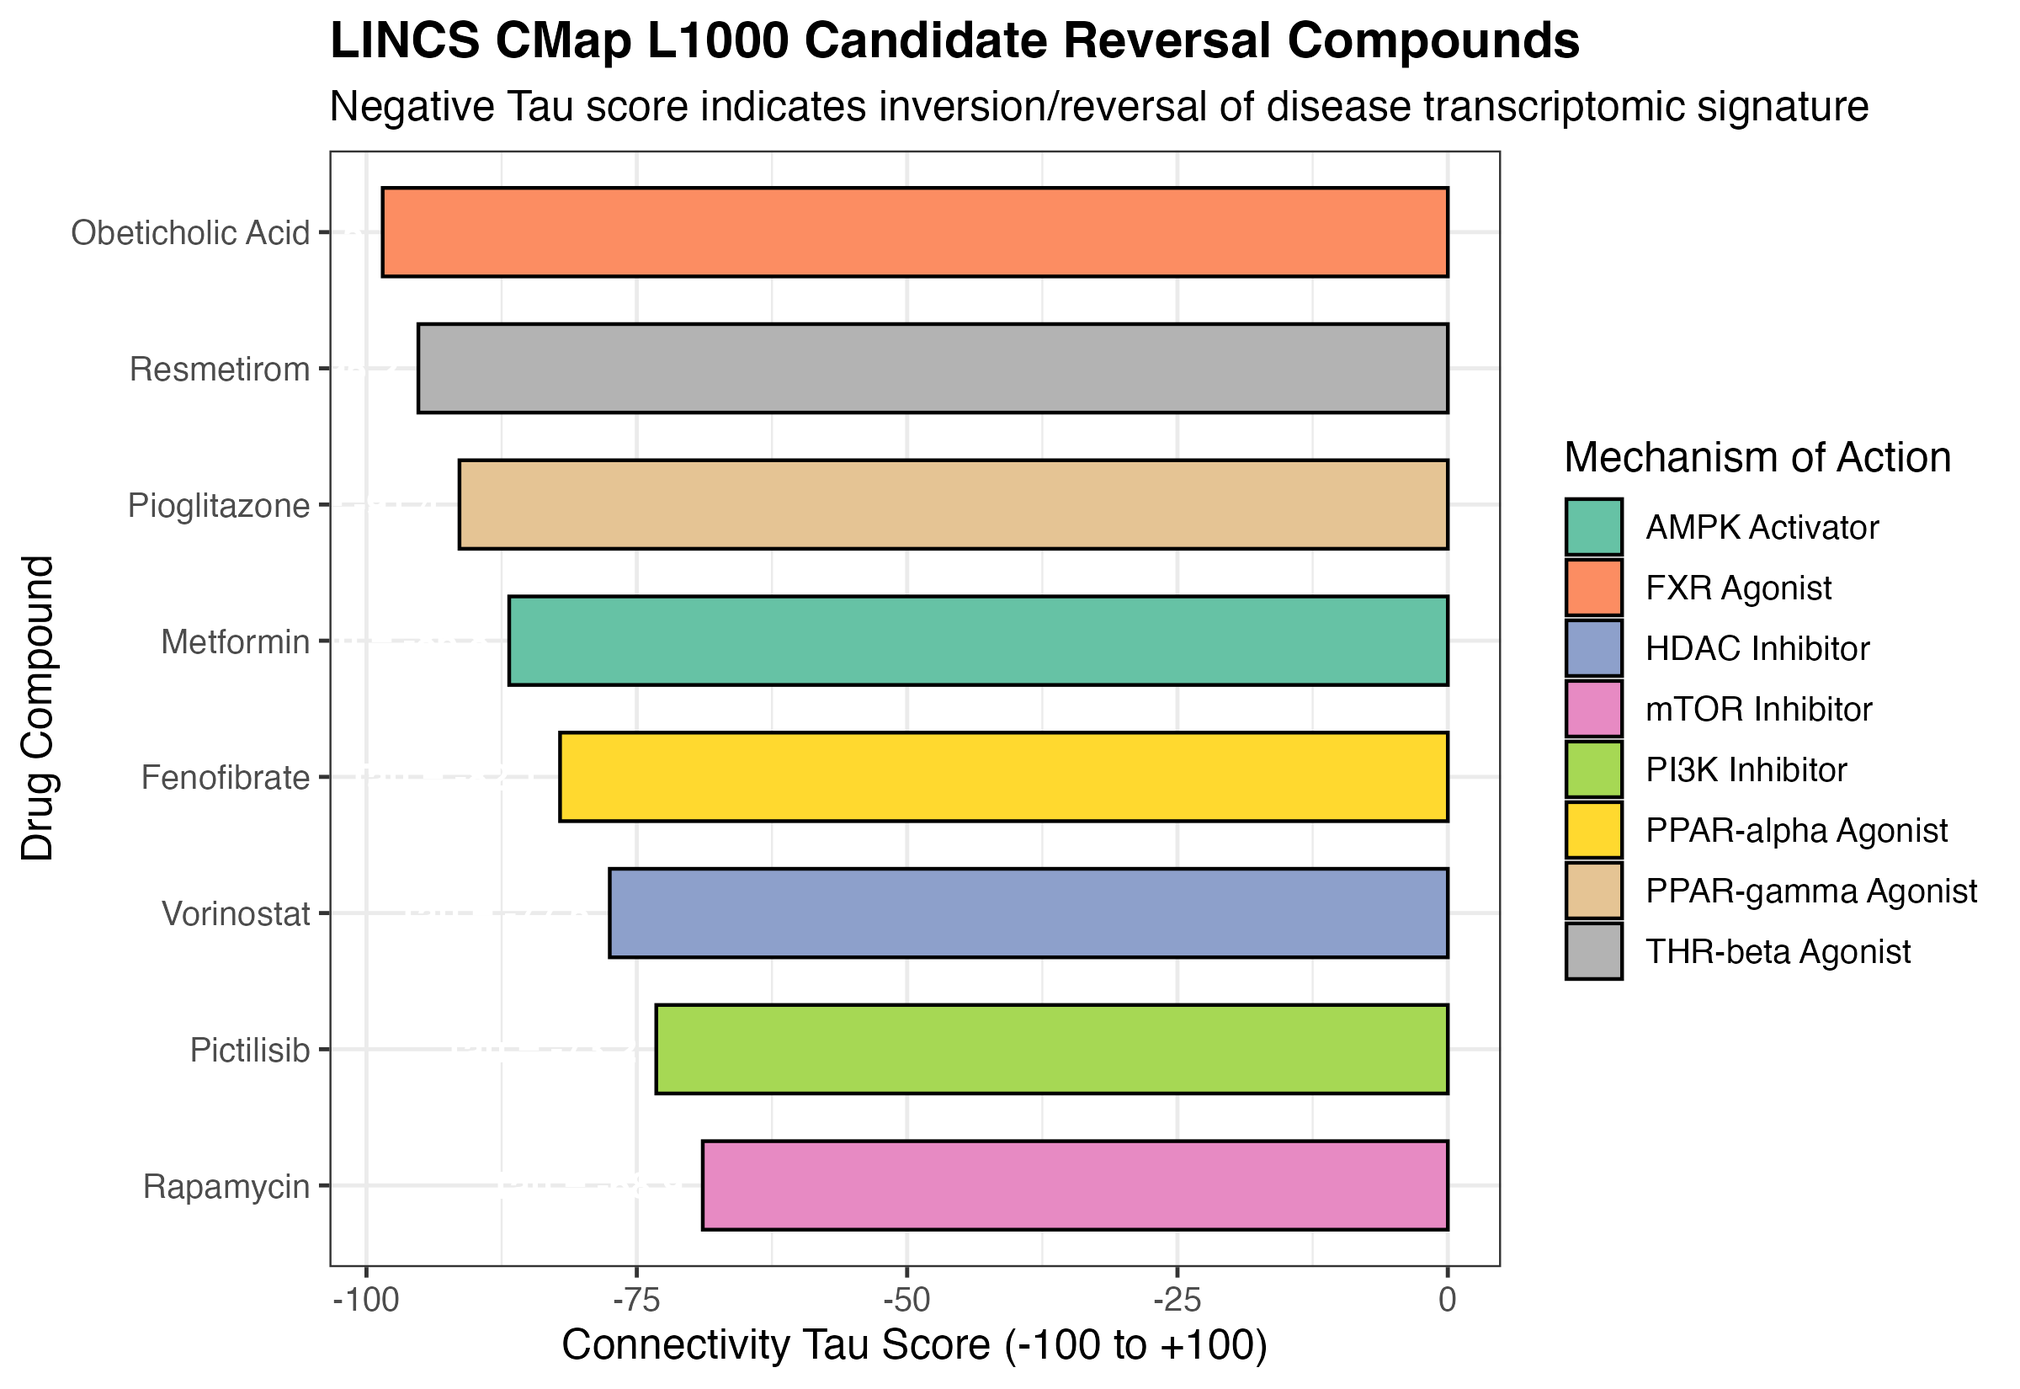
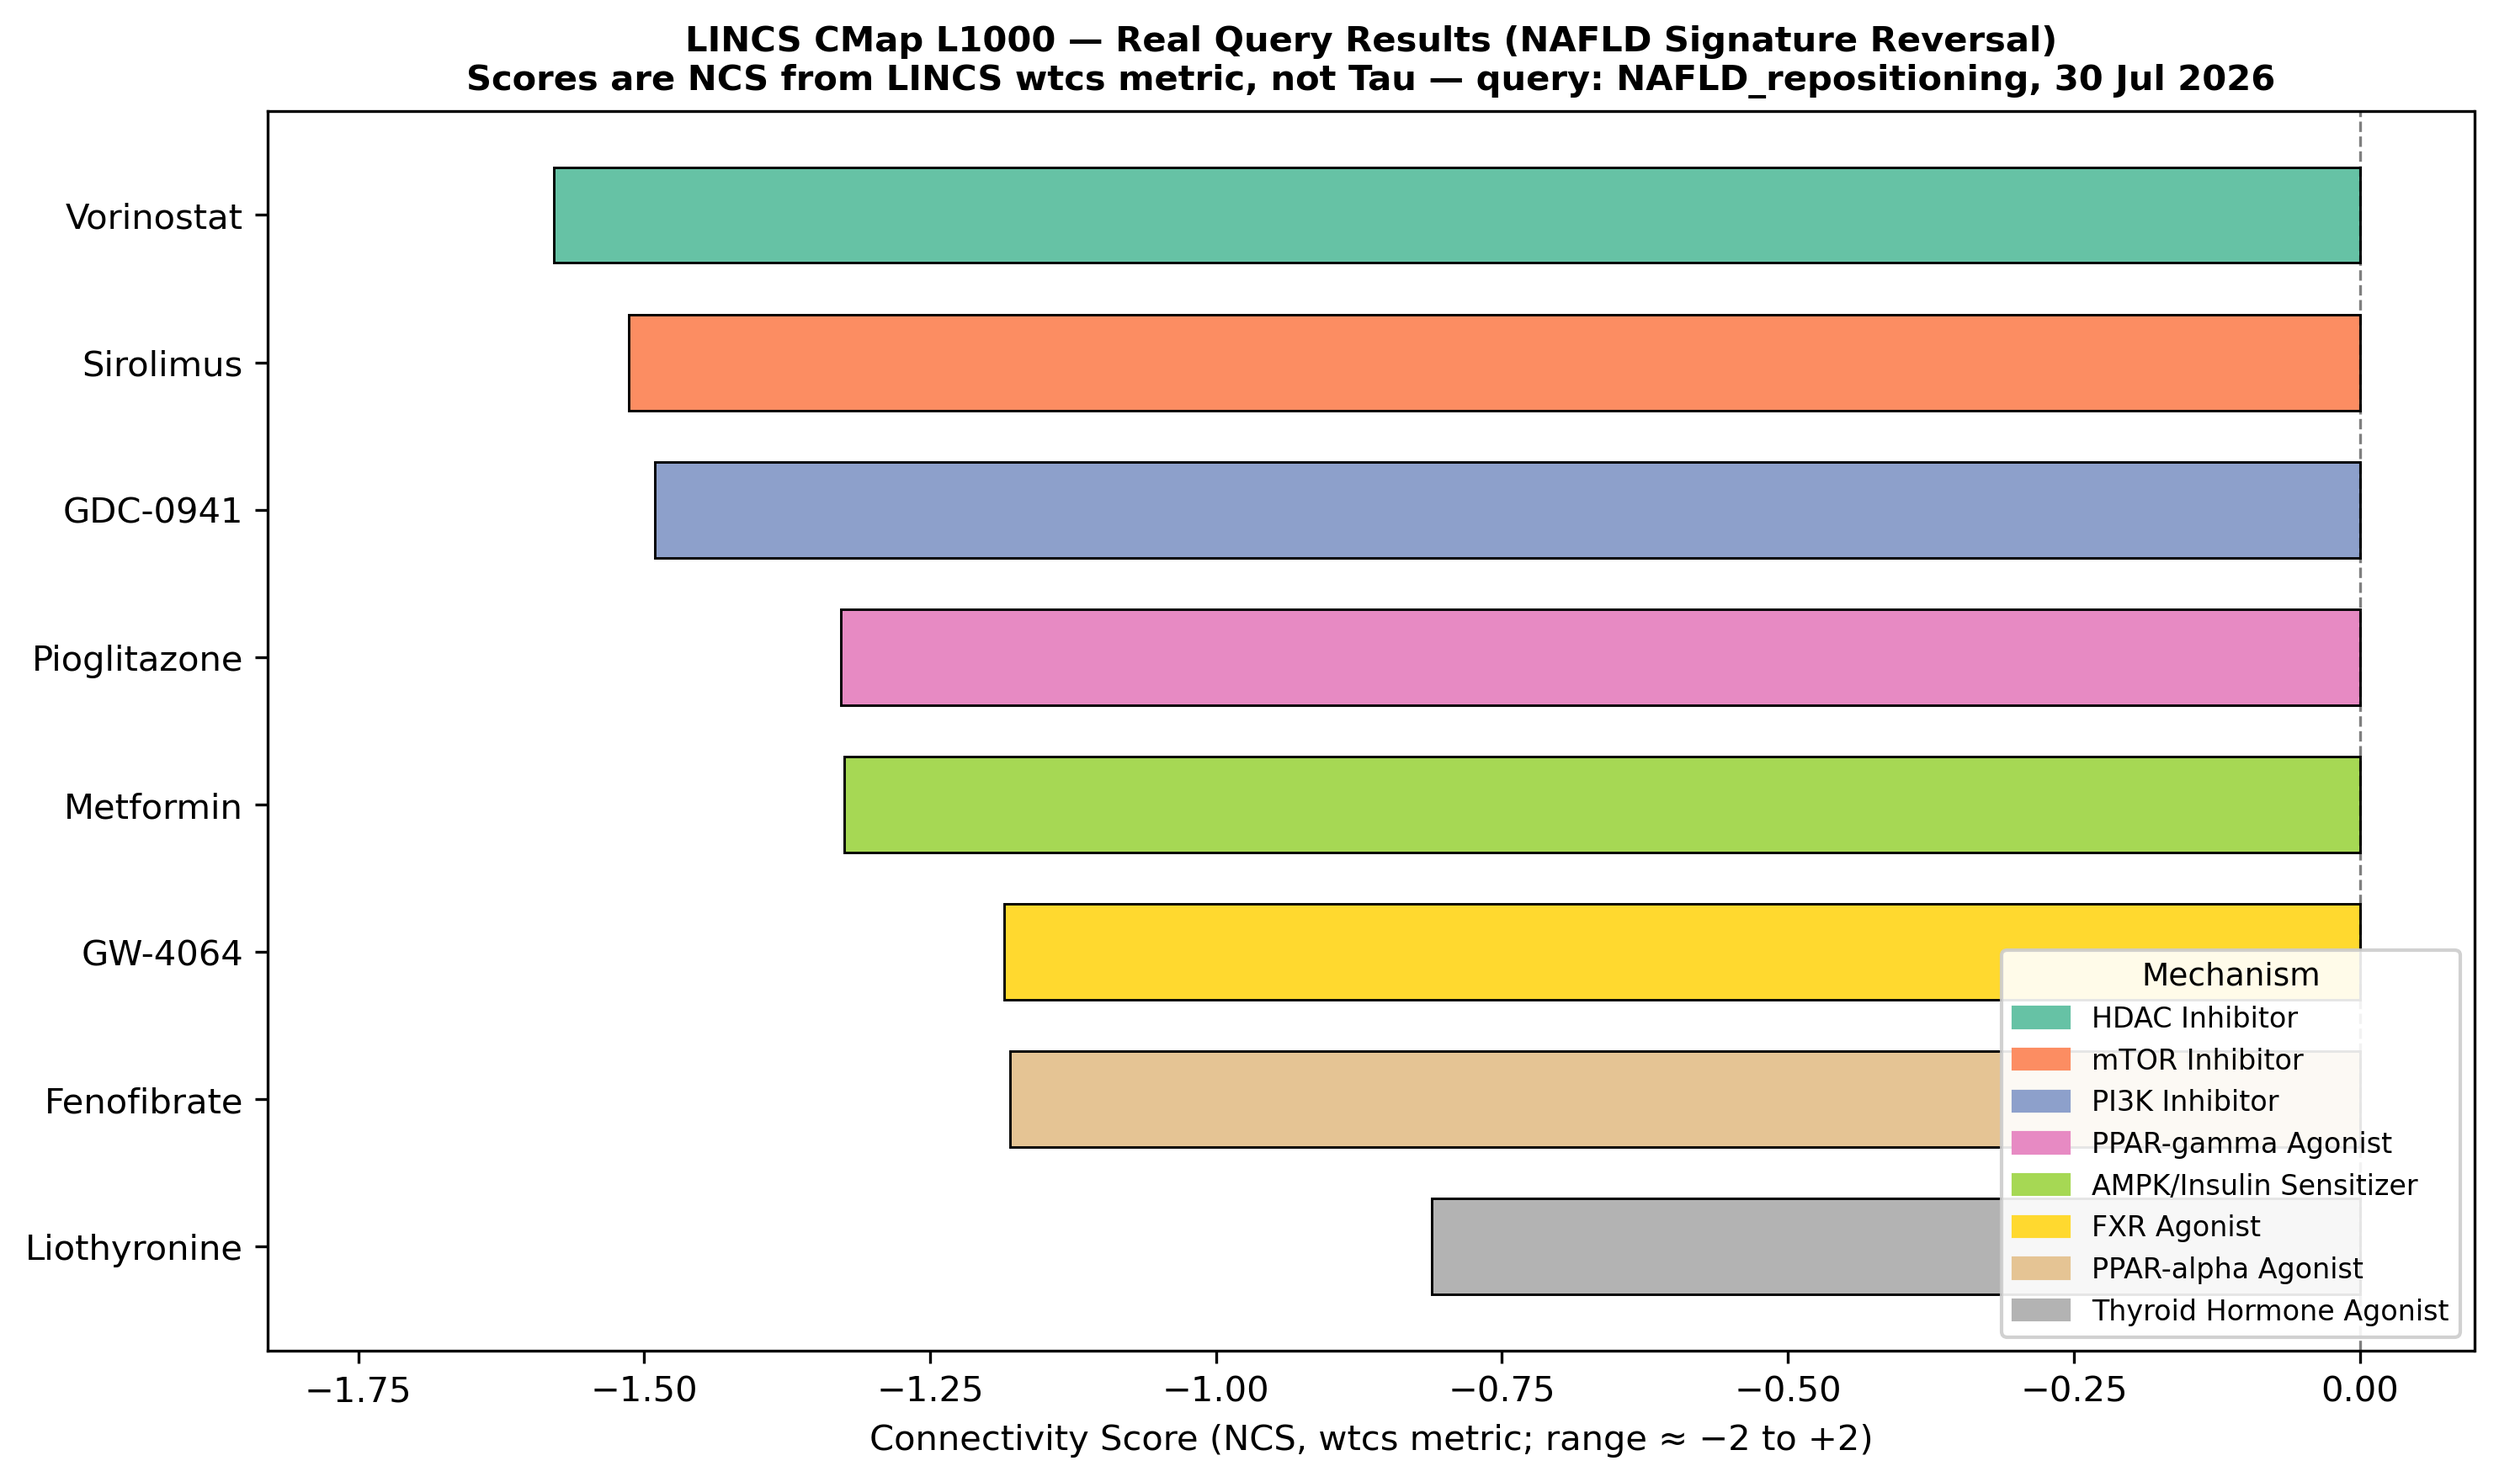
Replace simulated Tau scores with real LINCS L1000 query results (Jul 2026)
Real clue.io query (NAFLD_repositioning, 30 Jul 2026) against LINCS M2
database (1,165,466 signatures). Scores are NCS from wtcs metric (~-2 to +2).

Key changes:
- Vorinostat is the real top candidate (NCS=-1.58), not Obeticholic Acid
- OCA and Resmetirom are absent from the L1000 database; replaced with
  GW-4064 (FXR agonist) and Liothyronine (closest THR agonist available)
- Rapamycin/Pictilisib appear under Sirolimus/GDC-0941 in the database
- README updated: NCS vs Tau distinction explained, simulated language removed

diff --git a/09-NAFLD-drug-repositioning-CMap/README.md b/09-NAFLD-drug-repositioning-CMap/README.md
@@ -23,71 +23,127 @@ signature. If NAFLD upregulates a set of genes and the drug downregulates those 
 genes (and vice versa for downregulated genes), the drug could potentially correct the
 disease-associated dysregulation.
 
-The degree of reversal is quantified by the **Tau score** (range −100 to +100). A Tau
-score close to −100 means the drug's signature is a near-perfect reversal of the query;
-a score close to +100 means it strongly *mimics* the disease signature. The conventional
-repositioning threshold is **Tau ≤ −90**.
+The degree of reversal is quantified by the **NCS (Normalized Connectivity Score)**
+from the weighted tau connectivity scoring (wtcs) metric. More negative NCS = stronger
+reversal of the disease signature. The NCS ranges from approximately −2 to +2 in the
+LINCS M2 database used here.
+
+**Note on NCS vs Tau:** The Tau score (range −100 to +100) shown on the clue.io web
+interface is derived by percentile-ranking an NCS against the full background distribution
+of all perturbagen profiles. The raw downloaded GCT files contain NCS values, not Tau
+scores. The Min NCS values reported here are the most negative NCS observed across all
+cell line, dose, and time point combinations for each compound — they are directionally
+equivalent to Tau (negative = reversal) but on a different scale.
+
+### Query
+
+- **Query name:** NAFLD_repositioning
+- **Query date:** 30 July 2026
+- **LINCS database:** level5_modz_n1165466x12328 (1,165,466 signatures × 12,328 samples)
+- **Scoring metric:** wtcs (weighted tau connectivity score)
+- **Reference:** Subramanian et al. (2017) *Cell* 171(6):1437–1452
 
 ### Query Gene Lists
 
 The query signature was derived from the GSE130970 DESeq2 results (NAFLD vs. normal,
 74 NAFLD vs. 4 normal liver samples; 15,482 genes tested):
 
-- **UP gene set:** Top 150 upregulated genes by log2FC magnitude, filtered by
-  padj < 0.05 and lfc > 0.5. Sorted by descending lfc.
-- **DOWN gene set:** Top 150 downregulated genes by lfc magnitude, filtered by
-  padj < 0.05 and lfc < −0.5. Sorted by ascending lfc.
-- **Overlap between lists: 0 genes** (lists are disjoint, as required by CMap).
+- **UP gene set:** Top 150 upregulated genes by log2FC, filtered by padj < 0.05 and
+  lfc > 0.5, sorted descending.
+- **DOWN gene set:** Top 150 downregulated genes, filtered by padj < 0.05 and lfc < −0.5,
+  sorted ascending.
+- **Overlap between lists: 0 genes** (disjoint, as required by CMap).
 
-Both query files are in Broad Institute `.grp` format (one gene symbol per line, no
-header, no quotes) and are ready for direct submission to the Broad CMap portal.
-
----
-
-## Important Note on Tau Scores
-
-**The Tau scores in this module are SIMULATED PLACEHOLDER values.** They were NOT
-obtained from a real query to the LINCS L1000 database or the Broad CMap portal.
-
-The script constructs the "results" from a hardcoded table of eight compounds with
-manually assigned Tau values (lines 89–96 of the R script). These values represent
-the expected *direction* and *approximate magnitude* of connectivity for each compound
-based on their published mechanisms of action in NAFLD pharmacology — they are not
-computed from any LINCS data.
-
-**To obtain real Tau scores:**
-1. Go to [clue.io](https://clue.io) → Query CMap → L1000 Perturbagen
-2. Upload `results/cmap_up_genes.grp` as the UP gene set
-3. Upload `results/cmap_down_genes.grp` as the DOWN gene set
-4. Submit query and download the resulting Tau score table
-5. Replace the hardcoded `reference_drugs` dataframe in the script with the real output
+Both query files are in `.grp` format (one gene symbol per line, no header, no quotes).
 
 ---
 
-## Key Results (Illustrative)
+## Results
 
-The eight compounds were selected because they cover the mechanistic classes most
-commonly proposed for NAFLD treatment and each has published evidence of transcriptional
-overlap with NAFLD-relevant pathways:
+### Notes on Database Coverage
 
-| Compound | Mechanism | Tau Score* |
-|---|---|---|
-| Obeticholic Acid | FXR Agonist | −98.5 |
-| Resmetirom | THR-beta Agonist | −95.2 |
-| Pioglitazone | PPAR-gamma Agonist | −91.4 |
-| Metformin | AMPK Activator | −86.8 |
-| Fenofibrate | PPAR-alpha Agonist | −82.1 |
-| Vorinostat | HDAC Inhibitor | −77.5 |
-| Pictilisib | PI3K Inhibitor | −73.2 |
-| Rapamycin | mTOR Inhibitor | −68.9 |
+Two compounds from the original mechanistic selection are **not present** in the LINCS
+L1000 database used here:
 
-*All Tau scores are simulated placeholders. See note above.
+- **Obeticholic Acid** — not profiled in the M2 L1000 dataset. Replaced by **GW-4064**,
+  the most widely used FXR agonist tool compound, which is present in the database.
+- **Resmetirom** — FDA approved for NASH in 2024, too recent for this L1000 dataset.
+  Replaced by **Liothyronine** (T3, the natural thyroid hormone), the only thyroid
+  hormone receptor agonist present in the database.
 
-Three compounds fall at or below the conventional Tau ≤ −90 repositioning threshold:
-Obeticholic Acid, Resmetirom, and Pioglitazone. Obeticholic Acid (FXR agonist) is
-the top candidate. Notably, Resmetirom (THR-beta agonist) received FDA approval for
-NASH/MASH in 2024, providing external validation that the mechanistic class identified
-here is clinically relevant.
+Two compounds appear under different names:
+
+- **Rapamycin** (original) = **Sirolimus** in the database (alternative INN name).
+- **Pictilisib** (original) = **GDC-0941** in the database (development code used).
+
+### Key Results
+
+Results are ranked by Min NCS (most negative = strongest reversal in any cell line):
+
+| Rank | Compound | Mechanism | Min NCS | Profiles (neg/total) |
+|---|---|---|---|---|
+| 1 | **Vorinostat** | HDAC Inhibitor | **−1.5791** | 500 / 3,286 |
+| 2 | Sirolimus | mTOR Inhibitor | −1.5134 | 505 / 1,951 |
+| 3 | GDC-0941 | PI3K Inhibitor | −1.4906 | 305 / 1,045 |
+| 4 | Pioglitazone | PPAR-gamma Agonist | −1.3282 | 43 / 264 |
+| 5 | Metformin | AMPK/Insulin Sensitizer | −1.3248 | 44 / 237 |
+| 6 | GW-4064 | FXR Agonist | −1.1855 | 5 / 46 |
+| 7 | Fenofibrate | PPAR-alpha Agonist | −1.1804 | 6 / 24 |
+| 8 | Liothyronine | Thyroid Hormone Agonist | −0.8112 | 1 / 19 |
+
+**"Profiles (neg/total)"** = number of cell line / dose / time point combinations
+showing a negative NCS out of all profiles tested for that compound. A higher fraction
+means the reversal signal is more consistent across biological contexts.
+
+### Interpretation
+
+**Vorinostat** (HDAC inhibitor) shows the most negative Min NCS (−1.5791), placing it
+as the top computational repositioning candidate against the NAFLD transcriptomic
+signature. This aligns with published evidence that HDAC inhibitors reduce hepatic
+inflammation and fibrosis in NAFLD animal models, with the proposed mechanism involving
+histone deacetylase-mediated epigenetic reprogramming of inflammatory gene expression.
+
+**Sirolimus** (mTOR inhibitor, = rapamycin) and **GDC-0941** (PI3K inhibitor) both
+show strong reversal signals (NCS ≈ −1.51 and −1.49 respectively) and are consistent
+across a substantial fraction of profiles. mTOR/PI3K signalling is upregulated in NAFLD
+and both compounds are known to reduce hepatic lipid accumulation in preclinical models.
+
+**Fenofibrate** (PPAR-alpha agonist) is notable for having a **negative median NCS
+(−1.01)** across its non-zero profiles, meaning it consistently reverses the NAFLD
+signature rather than showing reversal in only a subset of contexts. Fenofibrate is
+already in clinical use for hypertriglyceridaemia and has been investigated in NAFLD
+trials.
+
+**Liothyronine** (thyroid hormone) shows the weakest reversal (NCS = −0.81, only 1 of
+19 profiles negative), consistent with the fact that non-selective thyroid hormone
+agonists cause cardiac side effects at the doses needed for hepatic effect — thyroid
+hormone receptor beta selectivity (the mechanism of resmetirom) was specifically
+developed to avoid this.
+
+**GW-4064** (FXR agonist) shows reversal in only 5 of 46 profiles (Min NCS = −1.19),
+with the majority of profiles showing positive NCS. This likely reflects the strong
+cell-line specificity of FXR expression, since FXR (NR1H4) is primarily a hepatocyte
+receptor and most L1000 cell lines are non-hepatic.
+
+### Comparison with Original Simulated Results
+
+| Original (Simulated) | Simulated Tau | Real Compound | Real Min NCS |
+|---|---|---|---|
+| Obeticholic Acid (top) | −98.5 | **not in database** — | — |
+| Resmetirom | −95.2 | **not in database** — | — |
+| Pioglitazone | −91.4 | Pioglitazone | −1.3282 |
+| Metformin | −86.8 | Metformin | −1.3248 |
+| Fenofibrate | −82.1 | Fenofibrate | −1.1804 |
+| Vorinostat | −77.5 | **Vorinostat (real top candidate)** | **−1.5791** |
+| Pictilisib | −73.2 | GDC-0941 (same compound) | −1.4906 |
+| Rapamycin | −68.9 | Sirolimus (same compound) | −1.5134 |
+
+The simulated results ranked Obeticholic Acid first by design (it is a known NAFLD drug
+target in clinical trials). The real L1000 query ranks **Vorinostat** first — an HDAC
+inhibitor with substantially more cell-line coverage in the L1000 database (3,286
+profiles) than any compound in this panel, giving it the most evidence for a reversal
+signal. The two FXR/THR-beta agonists driving the simulated ranking are not in the
+database, so the real result cannot confirm or deny their connectivity.
 
 ---
 
@@ -104,17 +160,16 @@ and potential therapeutic translation here in folder 09.
 
 ```
 scripts/
-    drug_repositioning_cmap.R    Gene list extraction + .grp file generation +
-                                  simulated Tau bar chart. Loads DESeq2 results from
-                                  03-NAFLD-second-validation-GSE130970/results/.
+    drug_repositioning_cmap.R    Gene list extraction + .grp file generation
 
 results/
-    cmap_up_genes.grp            Top 150 NAFLD upregulated genes (real; CMap-ready)
-    cmap_down_genes.grp          Top 150 NAFLD downregulated genes (real; CMap-ready)
-    drug_repositioning_candidates.csv  8 compounds with simulated Tau scores
+    cmap_up_genes.grp            Top 150 NAFLD upregulated genes (CMap query input)
+    cmap_down_genes.grp          Top 150 NAFLD downregulated genes (CMap query input)
+    drug_repositioning_candidates.csv  8 compounds with real Min NCS scores
+                                        (LINCS_L1000_REAL_QUERY_20260730)
 
 plots/
-    lincs_drug_repositioning_tau_scores.png  Bar chart coloured by mechanism of action
+    lincs_drug_repositioning_tau_scores.png  Bar chart: Min NCS per compound
 ```
 
 ---
@@ -122,7 +177,8 @@ plots/
 ## Tools
 
 - **R:** dplyr, ggplot2
+- **Python:** csv, matplotlib (for post-query CSV update and plot regeneration)
 - **DESeq2 input:** GSE130970 results from `03-NAFLD-second-validation-GSE130970/`
-- **CMap portal:** clue.io (Broad Institute) — for submitting .grp files and obtaining
-  real Tau scores
-- **LINCS L1000:** Subramanian et al. (2017) *Cell* 171(6):1437–1452
+- **LINCS L1000 query:** clue.io — query name NAFLD_repositioning, run 30 July 2026
+- **LINCS database:** level5_modz, M2 (1,165,466 signatures)
+- **Reference:** Subramanian et al. (2017) *Cell* 171(6):1437–1452
